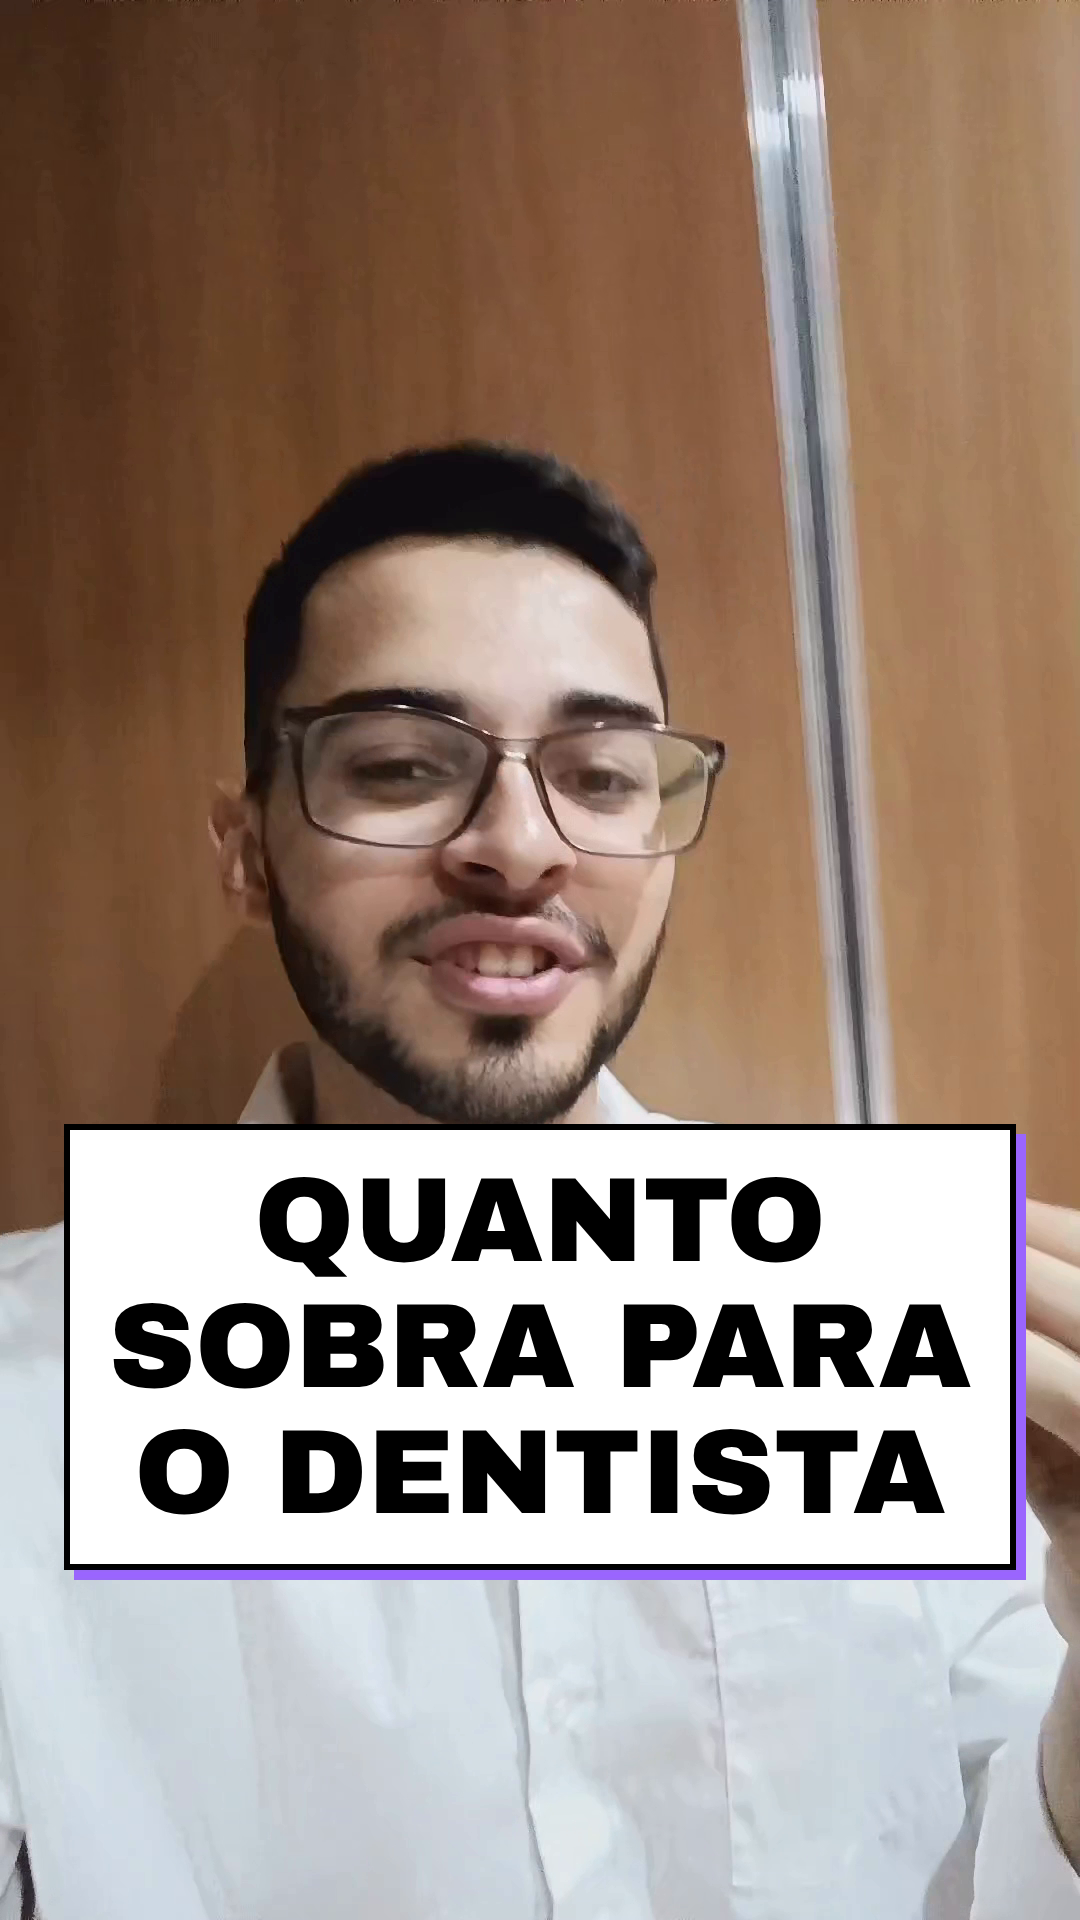
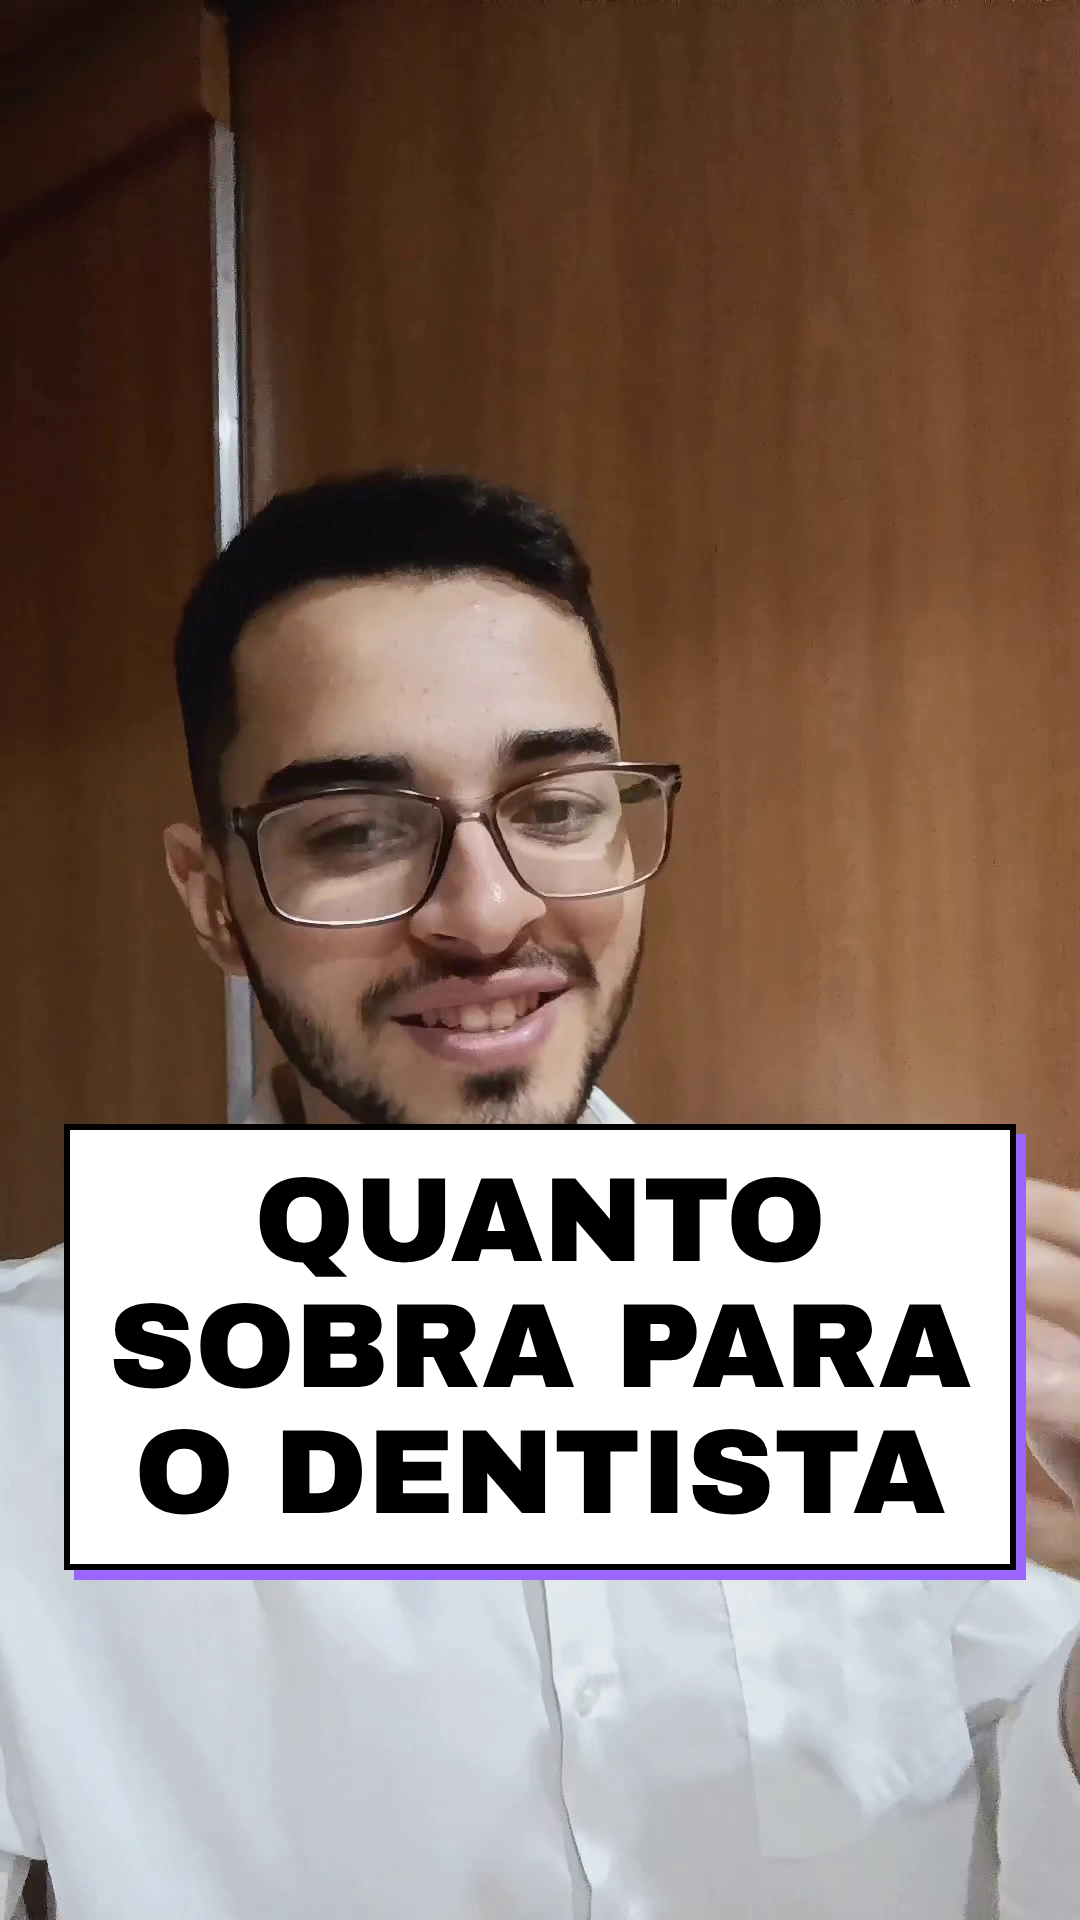
QUA21-19: capa com outro quadro de fundo e opção --capa-tempo
Claude-Session: https://claude.ai/code/session_01B2AFs8wC6CDVaAZ7amKMx7

diff --git a/.claude/skills/reels-r7/scripts/r7.py b/.claude/skills/reels-r7/scripts/r7.py
@@ -228,6 +228,7 @@ def main():
     ap.add_argument('--inicio', type=float, default=0.0)
     ap.add_argument('--base', default=os.path.expanduser('~/reels-r7'))
     ap.add_argument('--tmp')
+    ap.add_argument('--capa-tempo', type=float, default=0.5, help='segundo do vídeo usado como fundo da capa (padrão 0,5)')
     ap.add_argument('--ultrapassar', action='store_true', help='libera a área segura (olhos e boca continuam proibidos)')
     a = ap.parse_args()
     rid, base = a.id, a.base
@@ -297,7 +298,7 @@ def main():
     # capa
     capa = os.path.join(out, f'{rid}_capa.png')
     cf = os.path.join(tmp, 'capa_fundo.png')
-    frame_at(base_mp4, 0.5, cf)
+    frame_at(base_mp4, a.capa_tempo, cf)
     if lay.get('capa'):
         ff('-i', cf, '-i', os.path.join(png, 'capa_balao.png'), '-filter_complex', 'overlay=0:0', '-frames:v', '1', capa)
     else:

diff --git a/.claude/skills/reels-r7/SKILL.md b/.claude/skills/reels-r7/SKILL.md
@@ -53,6 +53,7 @@ python3 <skill>/scripts/r7.py <ID> --roteiros <arquivo_do_prompt.md> [--inicio <
 - O roteiro de cada ID fica no prompt, em blocos `### <ID> · <título>` com as linhas `1.` a `4.`, `Aviso no balão N: ...` (opcional) e `Capa: ...`. Destaques vão entre `[[ ]]`. Se o prompt veio como texto colado, salve-o como `.md` na pasta temporária e passe esse caminho.
 - "edita o QUI22-8": rode só esse ID.
 - "edita todos": rode cada vídeo de `entrada/` cujo nome bate com um ID do prompt, um por vez.
+- `--capa-tempo <s>`: segundo do vídeo usado como fundo da capa (padrão 0,5). Use quando a expressão do quadro padrão ficar ruim: olhos fechados, boca no meio da palavra ou mão na frente do rosto.
 - `--ultrapassar`: só quando o usuário pedir para passar dos limites. Libera a área segura (balões até y 1880, laterais de x 10 a 1070, chamada com centro até y 1850). Olhos e boca continuam proibidos. Nesse modo o layout dividido (passo 6) é testado primeiro, porque estoura menos a base. Avise que o que passa de y 1525 fica sob a legenda do Instagram.
 - O script imprime um JSON com fontes, larguras, linhas, passos da regra do rosto aplicados, música, LUFS, contagem de quadros, alertas e o caminho da folha de conferência.
 
